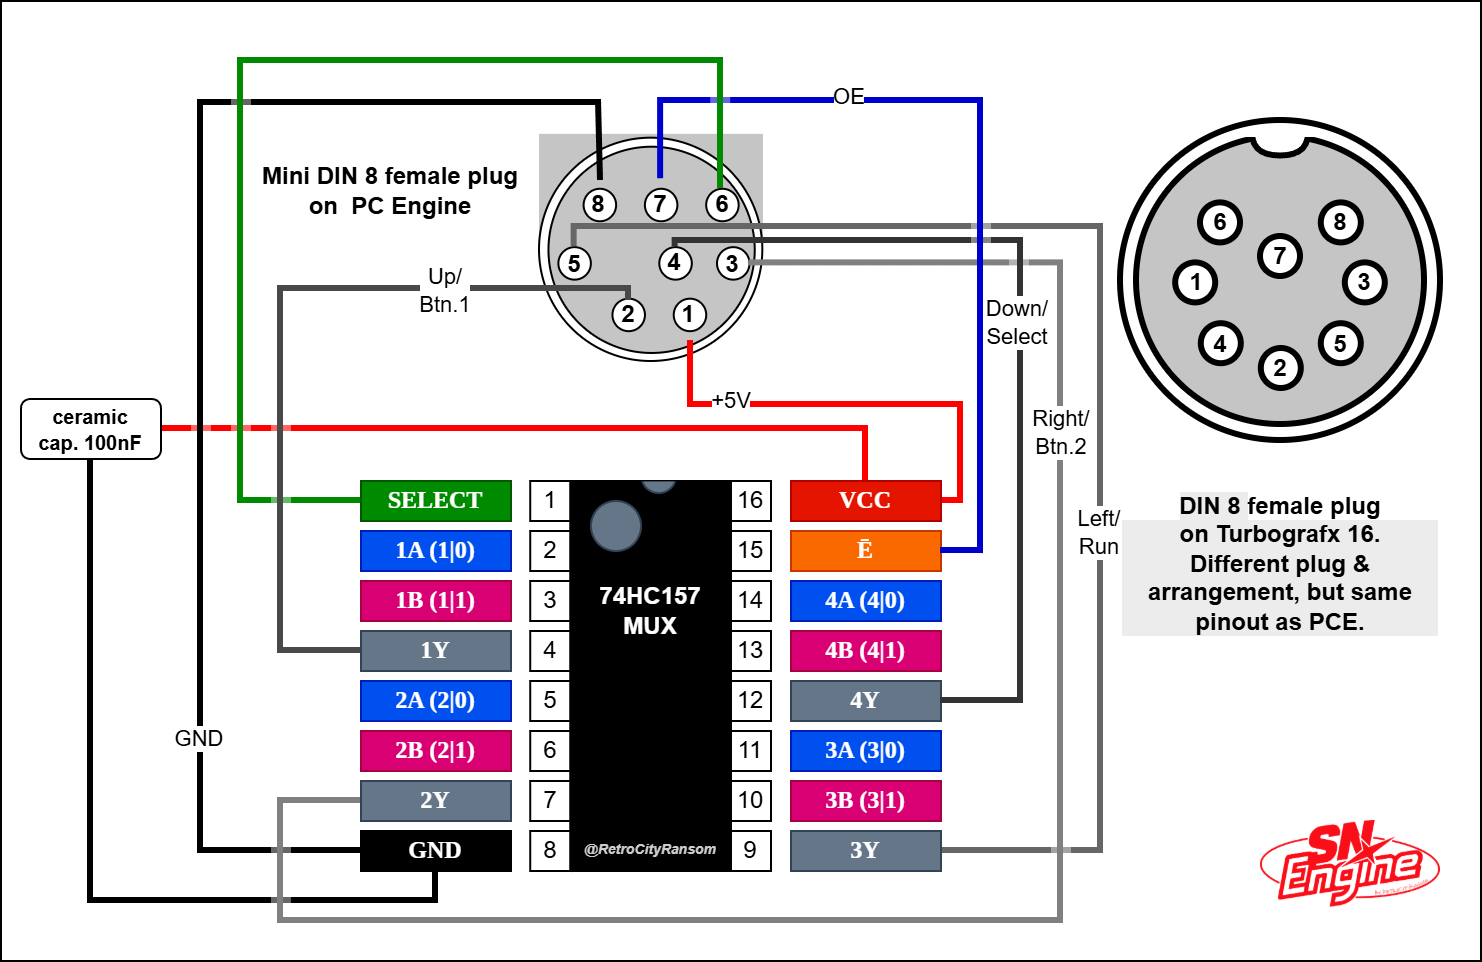
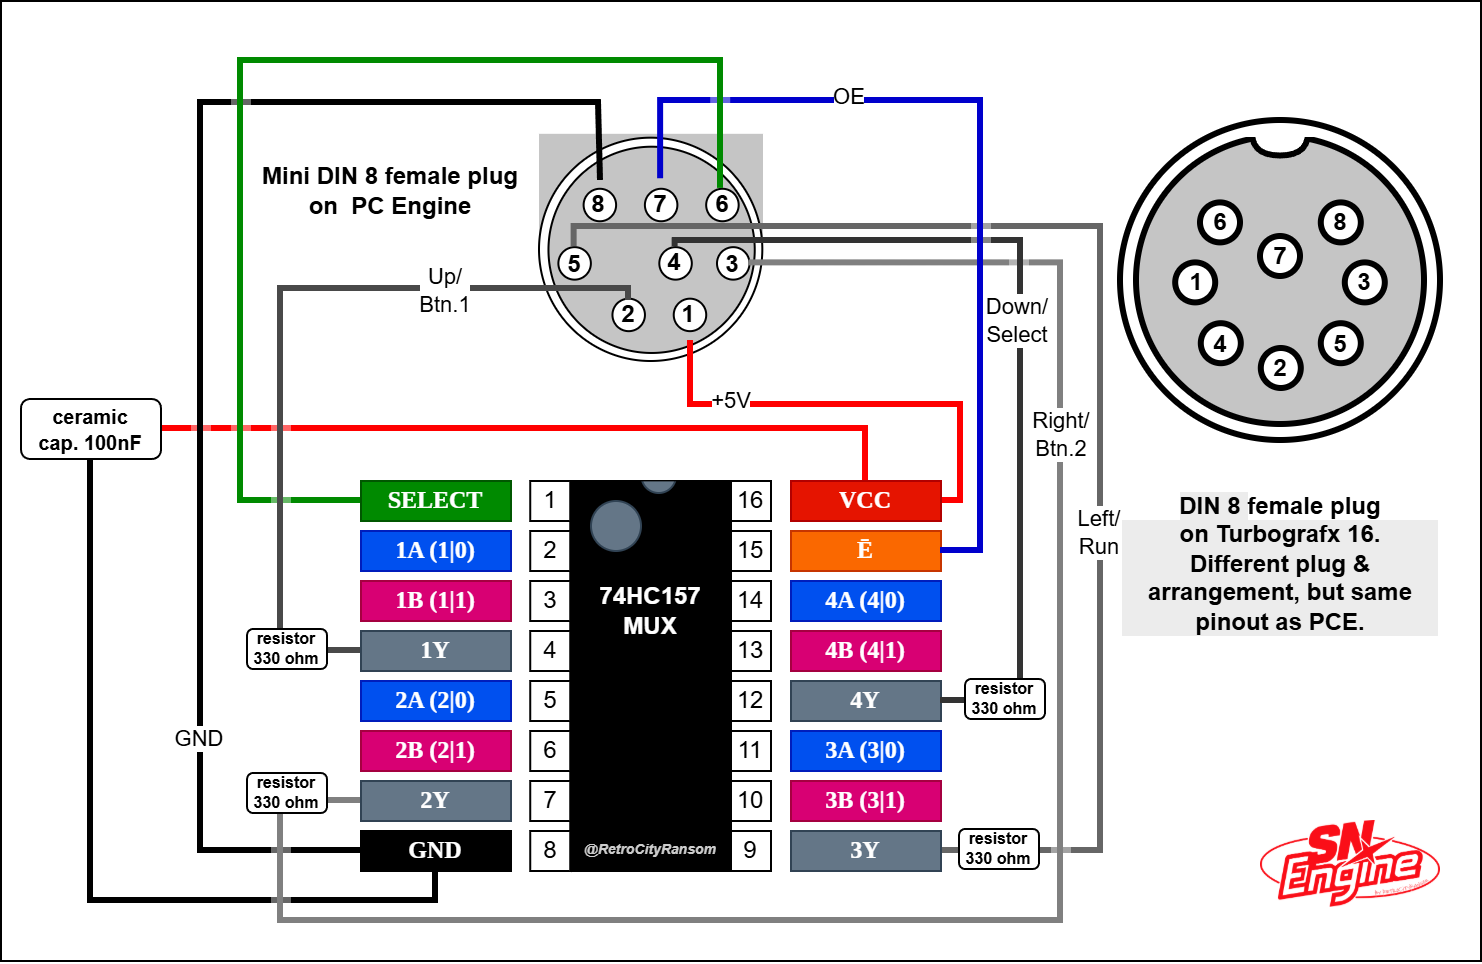
Added more autofire options, made it easier to extend button mappings, hopefully reduced a bit of lag

diff --git a/readme.md b/readme.md
@@ -6,11 +6,13 @@
 
 ## About
 
-<https://youtu.be/9fGX9Tb3N7Q>
-
 When I was looking for a simple and affordable way to connect an SNES/SFC controller to my consolized MVS system, I came across Robin Edwards’ GitHub repository featuring the excellent “[SNES to NeoGeo](https://github.com/robinhedwards/SNES-to-NeoGeo) ” project. It builds on the groundwork laid by [another GitHub project by Anthony Burkholder](https://github.com/burks10/Arduino-SNES-Controller) — to give proper credit here. Putting the adapter together went really well, and it was surprisingly easy, even though I’m not particularly experienced with soldering. One especially nice touch is that Robin also provides files for a 3D-printable case to house the Arduino and the SNES female controller port. Luckily, my brother owns a 3D printer and kindly made a few of these cases for me.
 
 Then one day, while playing on my PC Engine, I caught myself thinking, “Man, the controls are totally mushy”. The original PCE controllers are fine - in a way, but I personally prefer using a PS4, NES or SNES controller. They offer much tighter controls, I think.  There is an adapter for NES pads available ("NES2PCE"), but at the moment it costs around 35\$, plus shipping and import taxes, which adds up pretty quickly. It was mostly not in stock when I was looking, anyway. Another option are PCE Bluetooth adapters ("PCE BT", ~40\$) - I own two of them. Well, the input latency becomes noticeable when both BT adapters + controllers are connected — or when you hook up two or more controllers to a single adapter in multitap mode. For me, those adapters are only a good option when playing solo. Maybe I was using the existing solutions just wrong, but however ... With the recent experience of working on my own “SNES to NeoGeo” project still fresh in my mind, I decided to create something similar for the PC Engine and fit the electronics into the same case design from the SNES to NeoGeo project. I was looking forward to get some more practice soldering stuff together. So this is a small SNES-to-PCEngine converter (or SNES-to-Turbografx converter) project just for the fun of it.
+
+**Watch the teaser on Youtube**
+
+[![Video ansehen](https://img.youtube.com/vi/9fGX9Tb3N7Q/0.jpg)](https://www.youtube.com/watch?v=9fGX9Tb3N7Q)
 
 ## Features
 
@@ -23,44 +25,43 @@ Then one day, while playing on my PC Engine, I caught myself thinking, “Man, t
 - No noticeable input lag or audio glitches (at least in my testing).
 - Works with the 8BitDo SN30 2.4G for SNES and the 8BitDo Retro Receiver for SNES -> allows use of wireless SNES or Bluetooth controllers; likely compatible with similar 8BitDo products for NES
 
+### Available button mappings
+
+- Layout A: B/X=I, L=Turbo I, A/Y=II, R=Turbo II
+- Layout B: B/X=II, L=Turbo II, A/Y=I, R=Turbo I
+- Layout C: B/L=I, Y=Turbo I, A/R=II, X=Turbo II
+- Layout D: B/L=II, Y=Turbo II, A/R=I, X=Turbo I
+- Layout E: X/L=I, B=Turbo I, Y/R=II, A=Turbo II
+- Layout F: X/L=II, B=Turbo II, Y/R=I, A=Turbo I
+- Layout G: X/L=I, Y=Turbo I, A/R=II, B=Turbo II
+- Layout H: X/L=II, Y=Turbo II, A/R=I, B=Turbo I (great for Salamander)
+
+### Hotkeys
+
+SNEngine offers hotkey combinations to choose different settings for your controller and save them persistently. These combos consist of SELECT plus a directonal button (currently UP, DOWN or RIGHT only).
+*Some games pause when you press SELECT. Since version "SNEngine__20260402-2" you have the option to press the directional button first before pressing SELECT to avoid that.*
+Let's assume you're playing Bloody Wolf - if press and hold UP and press SELECT subsequently the game won't pause.
+
+- SELECT + UP: SNEngine supports autofire. You can switch between frequencies by simultaneously pressing SELECT + UP. Since version SNEngine__20260402-2 there are more than just two speeds to choose from.
+- SELECT + DOWN: Choose your preferred button layout by pressing SELECT + DOWN simultaneously. 
+- SELECT + RIGHT: You can press SELECT + RIGHT to save your chosen autofire frequency and button mapping in persistent memory. This will be your new default setting from then on.
+
 ## Currently not featured
 
-- 6 button mode; I don’t use this myself, but if someone proposes a reasonable SNES button mapping, I can add support for it. This would require a new little project, since the current architecture seems not to be sufficiently fast for that.
-- Just a heads-up — this might not apply to your case: the more recent “green shell” 8BitDo SN30 controllers may come with a different 2.4 GHz adapter. In my case, that adapter seems to mix up the SNES button mapping. However, the controller works fine when connected using the 2.4 GHz adapter from the older grey version. Alternatively, you could adjust the code to handle the swapped mapping.
-
-## Button mapping details
-
-- SNEngine supports autofire. The default value is set to 30Hz, but you can switch between 30Hz and 15Hz by simultaneously pressing SELECT + UP.
-- New since version 202603231-1: You can press SELECT+RIGHT to save your chosen autofire frequency and button mapping in persistent memory. This will be your new default setting from then on.
-- The selectable mappings SNES => PCE are
-  - since version 20260322-2
-    - Layout A: B/X=I, L=Turbo I, A/Y=II, R=Turbo II
-    - Layout B: B/X=II, L=Turbo II, A/Y=I, R=Turbo I
-  - new in version 202603231-1
-    - Layout C: B/L=I, Y=Turbo I, A/R=II, X=Turbo II
-    - Layout D: B/L=II, Y=Turbo II, A/R=I, X=Turbo I
-    - Layout E: X/L=I, B=Turbo I, Y/R=II, A=Turbo II
-    - Layout F: X/L=II, B=Turbo II, Y/R=I, A=Turbo I
-    - Layout G: X/L=I, Y=Turbo I, A/R=II, B=Turbo II
-    - Layout H: X/L=II, Y=Turbo II, A/R=I, B=Turbo I (great for Salamander)
+- 6 button mode; I don’t use this myself, but Reddit user MasterDenton suggested B=I, A=II, R=III, Y=IV, X=V, L=VI (thanks man - I'm totally lost there). I will try to add support for it or make it work with a different HW set-up (likely required) in the future.
+- Visual feedback: I will add support or RGB LEDs or a tiny OLED to display the chosen Button settings and such...
 
 ## Basic Principle
 
 I've tried really hard to make it all work only with the Arduino, following the "SNES to NeoGeo" principle. But the PC Engine / Turbografx 16 has completely different requirements and the Ardu alone was not enough. The signal processing has to be done in such a fast way, that even the Arduino interrupt was overburdened. So I've had to add a much faster multiplexer (same type as used in the original controller) to the mix to cope with the fast switching SEL and OE processing from the PCE.
-The rough layout sketch is like: SNES controller -> [ SNES controller female port -> Arduino -> Multiplexer -> Mini Din 8 cable (for PC Engine) / Din 8 (for TG16) ] -> PC Engine (or Turbografx 16). Please check out the diagrams provided below for reference.
-Since wireless adapters may introduce voltage inconsistency, it’s best to place capacitors near the SNES port.
+The rough layout sketch is like: SNES controller -> [ SNES controller female port -> Arduino -> Multiplexer <-> Mini Din 8 cable (for PC Engine) / Din 8 (for TG16) ] <-> PC Engine (or Turbografx 16). Please check out the diagrams provided below for reference.
+Since wireless adapters may introduce voltage inconsistency, it’s best to place capacitors near the SNES port and the MUX.
 
 ## Disclaimer
 
 Use at your own risk. I am not an electrician and strongly advise against trying this without consulting a qualified professional and verifying the accuracy of all information provided in this repository.
 The adapter has not been thoroughly tested yet. You may need to add resistors, capacitors or other electrical parts to ensure safe and error free operation.
 The pictures provided here are not an implementation manual, but rather a personal photo diary.
-
-## Updates
-
-- Stability for Multitap: Implementig a 100uF electornic capacitor turned out to be much more stable than the solution with 47uF.
-- Stability for Multitap: Additionally put a 47nF ceramic cap between GND and VCC of the MUX. I've soldered mine under the perfboard.
-- new SN30 fix (reading 16 bits from SNES again)
 
 ## Shopping list, software & tools
 
@@ -73,12 +74,14 @@ The pictures provided here are not an implementation manual, but rather a person
 | Part     |              | Some wires & heat shrink tubing                                              | I've used 28 AWG wires, 30 AWG should also be fine                                                                                                                                                                                                                                 |
 | Part     | (Yes)        | 100uF electrolytic capcitor                                                  | Highly recommended! Mind the correct polarity! Use together with 100nF ceramic cap to smooth out electrical spikes, stabilize voltage and hence avoid sound glitches when using 2.4gHz 8BitDo adapters instead of wired SNES pad. Connect between GND and VCC of SNES female port. |
 | Part     | (Yes)        | 100nF ceramic capcitor (type 104)                                            | Highly recommended! Use together with 100uF ceramic cap to smooth out electrical spikes, stabilize voltage and hence avoid sound glitches when using 2.4gHz 8BitDo adapters instead of wired SNES pad. Connect between GND and VCC of SNES female port.                            |
-| Part     | (Yes)        | 100nF ceramic capcitor (type 104) for the MUX                                | Highly recommended! Put between GND and VCC of the MUX.                                                                                                                                                                                                                            |
+| Part     | Yes          | 100nF ceramic capcitor (type 104) for the MUX                                | Optionally put this between GND and VCC of the MUX.                                                                                                                                                                                                                                |
+| Part     | Yes          | 4x 330 Ohm resistor                                                          | You can put one between each of the 4 MUX output lines to the PCE to add a little protection for your console.                                                                                                                                                                     |
+| Part     | Yes          | Schottky Diode, e.g. BAT85                                                   | It can be soldered between the PCE’s VCC and the SNEngine’s VCC input to protect your console. Make sure to observe the polarity.                                                                                                                                                  |
 | Part     | Yes          | Screw terminal block (8 pin) connectors 2.54mm                               | Very convenient if you do not want to take the risk soldering the wrong cables to your Arduino. Any size will work, but two eight-terminal connectors are optimal. Using a larger one prevents the MUX from fitting under the Arduino, requiring a bigger case.                    |
 | Part     | Yes          | A small Perfboard                                                            | I've cut mine 4x8. To mount/protect the multiplexer so that its pins do not bend, attach the wires to the underside.  If your case is significantly larger than that of the SNES-to-NEOGEO adapter, you can try mounting all the electronic components.                            |
 | Part     | Yes          | Superglue                                                                    | To firmly attach the SNES port to the case. Best only glue the lower part of the case and the SNES port, so you can still open the case without breaking it.                                                                                                                       |
 | Part     | Yes          | Adhesive Tape                                                                | Wrap around the perfboard and the multiplexer. Also wrap around the multiplexer and the Arduino to secure them. This will make it easier to position both components inside the small enclosure.                                                                                   |
-| Part     | Yes          | The 3d printed SNES-TO-NEOGEO shell                                          | TO achieve greatness!!!                                                                                                                                                                                                                                                            |
+| Part     | Yes          | The 3d printed SNES-TO-NEOGEO shell                                          | To achieve greatness!!!                                                                                                                                                                                                                                                            |
 | Part     | Yes          | 3mmx16mm screws                                                              | To assemble the shell. You could simply wrap some tape around it instead.                                                                                                                                                                                                          |
 | Part     | Yes          | Cable/strain relief                                                          | I've got mine from another electrical case.                                                                                                                                                                                                                                        |
 | Software |              | [SNEngine code](files/code)                                                  |                                                                                                                                                                                                                                                                                    |
@@ -86,7 +89,7 @@ The pictures provided here are not an implementation manual, but rather a person
 | Software |              | Arduino IDE                                                                  |                                                                                                                                                                                                                                                                                    |
 | Software | Yes          | [Robin's 3d printing files](https://github.com/robinhedwards/SNES-to-NeoGeo) | For the case. Highly recommended.                                                                                                                                                                                                                                                  |
 | Tool     |              | Soldering equipment                                                          | Guess ...                                                                                                                                                                                                                                                                          |
-| Tool     |              | USB-to-TTL serial adapter, e.g. IDUINO FT232                                 | To program the Arduino                                                                                                                                                                                                                                                             |
+| Tool     |              | USB-to-TTL serial adapter, e.g. IDUINO FT232                                 | To program the Arduino. Make sure you have set the correct voltage for your Arduino Pro Mini on this device.                                                                                                                                                                       |
 | Tool     | Yes          | 3d printer                                                                   | If you want the case ...                                                                                                                                                                                                                                                           |
 
 ## SNES2PCE / SNES2TG16 pinout
@@ -118,6 +121,18 @@ The pictures provided here are not an implementation manual, but rather a person
 [![SNEngine SNES to PC Engine Adapter](media/snengine_conn_ardu-mux_small.png)](media/snengine_conn_ardu-mux.png) [![SNEngine SNES to PC Engine Adapter](media/snengine_conn_ardu-pce_small.png)](media/snengine_conn_ardu-pce.png) [![SNEngine SNES to PC Engine Adapter](media/snengine_conn_snes-ardu_small.png)](media/snengine_conn_snes-ardu.png)
 
 ## Some photos
+
+### My prototype test
+
+Here's my prototyping board. I am changing cables frequently and try out different components.
+
+![SNEngine SNES to PC Engine Adapter](media/photos/snengine_subjective_lag_testing_prototype_sync_01_small.jpg)
+
+World Sports Competition-wise it went okay with the SNEngine adapter + 8BitDo Retro Receiver :-P
+
+![SNEngine SNES to PC Engine Adapter](media/photos/snengine_subjective_lag_testing_prototype_sync_03_small.jpg)
+
+### My first attempt with the SNES-to-NeoGeo case
 
 Here are some pictures to show, how I've tried to build the SNEngine adapter and fit everything into the SNES-TO-NEOGEO box. It was quite a bit of a pain, especially since I don’t have much experience with soldering and that DIY kind of thing, but the result was totally worth it. If you want to make things a bit easier, just modify the 3D printing files to create a larger case.
 
